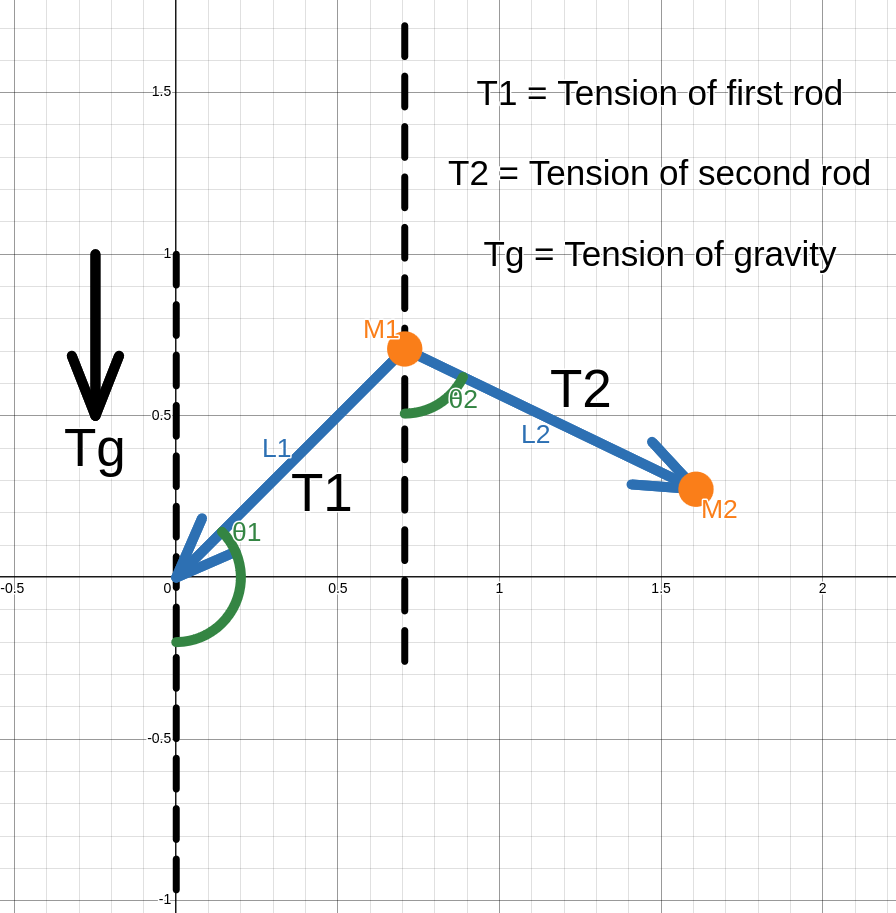
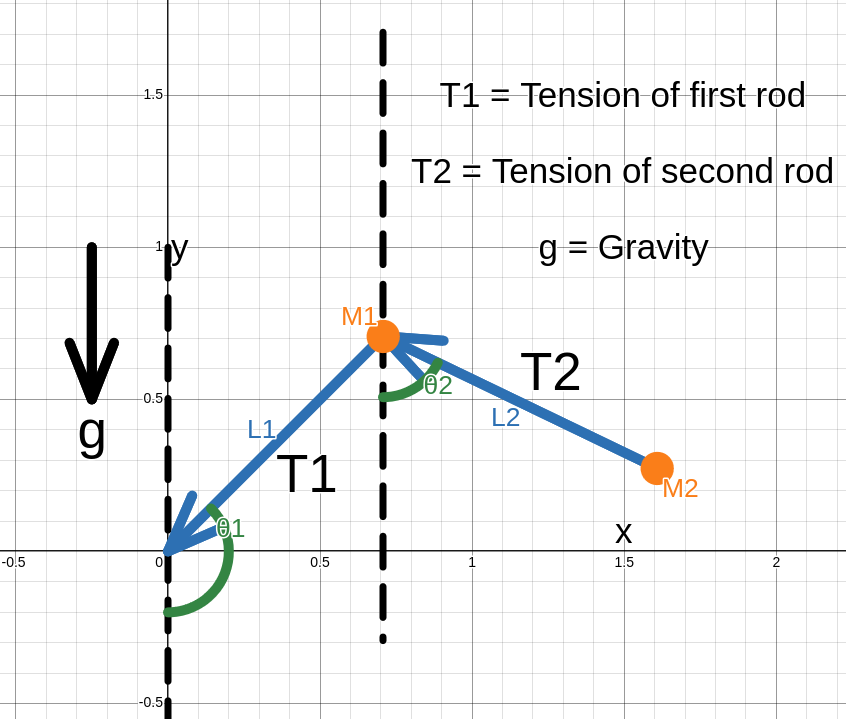
Fix nl 6. + change picture remind euler method

diff --git a/README.md b/README.md
@@ -146,7 +146,7 @@ _Exemple in video in mp4 format_
 			\frac{d}{dt}\left(\frac{\partial \mathcal{L}}{\partial {\dot{\theta}_1}} \right) &= 
 				{l_1}^{2} (m_1 + m_2) \ddot{\theta}_1 + l_1 l_2 m_2 \Big( \ddot{\theta}_2 \cos(\theta_1 - \theta_2) - ({\dot{\theta}_1} - {\dot{\theta}_2}) {\dot{\theta}_2} \sin(\theta_1 - \theta_2)\Big)\\
 			\frac{d}{dt}\left(\frac{\partial \mathcal{L}}{\partial {\dot{\theta}_2}} \right) &= 
-				{l_2}^{2} m_2 \ddot{\theta}_2 + l_1 l_2 m_2 \Big( \ddot{\theta}_1 \cos(\theta_1 - \theta_2) - ({\dot{\theta}_1} - {\dot{\theta}_2}) {\dot{\theta}_1} \sin(\theta_1 - \theta_2)\Big)\\
+				{l_2}^{2} m_2 \ddot{\theta}_2 + l_1 l_2 m_2 \Big( \ddot{\theta}_1 \cos(\theta_1 - \theta_2) - ({\dot{\theta}_1} - {\dot{\theta}_2}) {\dot{\theta}_1} \sin(\theta_1 - \theta_2)\Big)
 	    \end{aligned}
 	\right.\\
 
@@ -157,7 +157,7 @@ _Exemple in video in mp4 format_
 			\frac{\partial \mathcal{L}}{\partial {\theta_2}} &= 
 				l_1 l_2 m_2 \dot{\theta}_1 \dot{\theta}_2 \sin(\theta_1 - \theta_2) + g l_2 m_2 \sin\theta_2
     	\end{aligned}
-	\right.
+	\right.\\
 	
 	\text{Lagrangian: } \quad\\
 	&\boxed{
